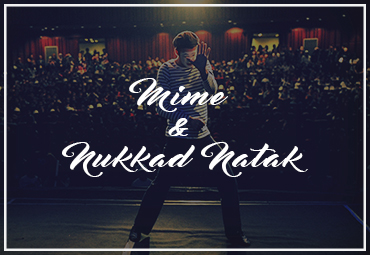
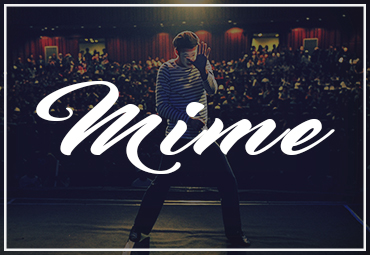
events page
mime and nukkad naatak seperated

Changed region(s): [[0.0892, 0.302, 0.9216, 0.7137], [0.8027, 0.6588, 0.8324, 0.6863]]

diff --git a/events.html b/events.html
@@ -199,7 +199,7 @@
 												</div>
 											</div>
 										</div>
-										<h2>Mime & Nukkad Naatak</h2>
+										<h2>Mime</h2>
 										<p></p>
 									</div>
 
@@ -430,6 +430,18 @@
 										<p></p>
 									</div>
 
+									<div class="col-md-4 col-sm-4 wow animated fadeInUp" data-wow-duration="1s" data-wow-delay="0.5s">
+										<div class="overlay-effect effects clearfix">
+											<div class="img">
+												<img src="assets/img/events/title/nukkad.jpg" alt="Portfolio Item">
+												<div class="overlay">
+													<button class="md-trigger expand" data-modal="modal-20"><i class="fa fa-search"></i><br>View More</button>
+												</div>
+											</div>
+										</div>
+										<h2>Nukkad Naatak</h2>
+										<p></p>
+									</div>
 
 								</li>
 							</ul>
@@ -448,7 +460,7 @@
 							<p>Any fest without a dance event is like body without soul. Taal is adrenaline fueled dance event entertaining for both the participants and audience alike. It has three categories- solo, duet and group.</p>
 							</blockquote>
 							More Details Coming Soon!<br>
-							For Queries Contact:<br> Pavitra-9926617644, Chahat Chowdhary-7771999989
+							<strong>For Queries Contact</strong>:<br> Pavitra-9926617644, Chahat Chowdhary-7771999989
 						</div>
 						<div class="sp-social" id="event-1" style="text-align:center">
 							<a onclick="checkEvent(1);" class="learn-more-btn btn-effect wow animated fadeIn" data-wow-duration="0.5s" data-wow-delay="1.5s">Register Now!
@@ -471,7 +483,7 @@
 							<p>Swaranjali is the event targeting to portray the melodious voices harboured by the students waiting to be unleashed to mesmerize the crowd.</p>
 							</blockquote>
 						More Details Coming Soon!<br>
-						For Queries Contact:<br> Nilesh Vishwakama-78038383291, Aditya Jaiswal-9685767966
+						<strong>For Queries Contact</strong>:<br> Nilesh Vishwakama-78038383291, Aditya Jaiswal-9685767966
 						</div>
 						<div class="sp-social" id="event-2" style="text-align:center">
 							<a onclick="checkEvent(2);" class="learn-more-btn btn-effect wow animated fadeIn" data-wow-duration="0.5s" data-wow-delay="1.5s">Register Now!
@@ -494,7 +506,7 @@
 							<p>Ambriti encourages the student participants to show off their glamour and give them a platform to exhibit their skills.</p>
 							</blockquote>
 						More Details Coming Soon!<br>
-						For Queries Contact:<br> Shubham Soni-7869371329, Harshita Gadhe-9009233383
+						<strong>For Queries Contact</strong>:<br> Shubham Soni-7869371329, Harshita Gadhe-9009233383
 						</div>
 						<div class="sp-social" id="event-3" style="text-align:center">
 							<a onclick="checkEvent(3);" class="learn-more-btn btn-effect wow animated fadeIn" data-wow-duration="0.5s" data-wow-delay="1.5s">Register Now!
@@ -516,7 +528,9 @@
 							<blockquote>
 							<p>Fashion using old newspaper. Let your creativity take a leap and make the most out of it. Using Newspapers and scrap to design your dresses and beat the fashion.</p>
 							</blockquote>
-							For Queries Contact: Anupam Tripathi-7089331622, Shubham Bhatia-9826443337
+
+							<strong>For Queries Contact</strong>:<br>
+							Anupam Tripathi-7089331622, Shubham Bhatia-9826443337
 						</div>
 						<div class="sp-social" id="event-4" style="text-align:center">
 							<a onclick="checkEvent(4);" class="learn-more-btn btn-effect wow animated fadeIn" data-wow-duration="0.5s" data-wow-delay="1.5s">Register Now!
@@ -533,12 +547,13 @@
 				<div class="md-content">
 					<div class="folio">
 						<div class="avatar12"></div>
-						<div class="sp-name"><strong>Mime & Nukkad Naatak</strong><br/>Mime | Drama</div>
+						<div class="sp-name"><strong>Mime </strong><br/>Mime</div>
 						<div class="sp-dsc">
 							<blockquote>
 							<p>The display of any idea or latest issues or problems present in our society. A little dramatic but an effective way of conveying a message to its audience.</p>
 							</blockquote>
-							For Queries Contact: Anupam Tripathi-7089331622, Shubham Bhatia-9826443337
+							<strong>For Queries Contact</strong>:<br>
+							Anupam Tripathi-7089331622, Shubham Bhatia-9826443337
 						</div>
 						<div class="sp-social" id="event-5" style="text-align:center">
 							<a onclick="checkEvent(5);" class="learn-more-btn btn-effect wow animated fadeIn" data-wow-duration="0.5s" data-wow-delay="1.5s">Register Now!
@@ -550,6 +565,7 @@
 			</div>
 			<div class="md-overlay"></div>
 			<!-- /Event Modal -->
+
 			<!-- Event Modal -->
 			<div class="md-modal md-effect-9" id="modal-6">
 				<div class="md-content">
@@ -560,7 +576,8 @@
 							<blockquote>
 							<p>Kavyanjali will bring forward the poetic skills within. The students will have to write a poem/shayari based on the given theme and present it in-front of the audience.</p>
 							</blockquote>
-							For Queries Contact: Anupam Tripathi-7089331622, Shubham Bhatia-9826443337
+							<strong>For Queries Contact</strong>:<br>
+							Anupam Tripathi-7089331622, Shubham Bhatia-9826443337
 						</div>
 						<div class="sp-social" id="event-6" style="text-align:center">
 							<a onclick="checkEvent(6);" class="learn-more-btn btn-effect wow animated fadeIn" data-wow-duration="0.5s" data-wow-delay="1.5s">Register Now!
@@ -582,7 +599,8 @@
 							<blockquote>
 							<p>Fireless Cooking Competition provides the students a platform to showcase their skills in cooking. The participants will have to prepare dishes without putting fire. The dishes will be judged on the basis of taste and decoration of the servings.</p>
 							</blockquote>
-							For Queries Contact: Anupam Tripathi-7089331622, Shubham Bhatia-9826443337
+							<strong>For Queries Contact</strong>: <br>
+							Anupam Tripathi-7089331622, Shubham Bhatia-9826443337
 
 						</div>
 						<div class="sp-social" id="event-7" style="text-align:center">
@@ -605,7 +623,8 @@
 							<blockquote>
 							<p>To restrict the canvas size but not the ideas. To perform graffiti or doodle art on paper sheets. Use whatever colour you need and may collaborate and participate.</p>
 							</blockquote>
-							For Queries Contact: Anupam Tripathi-7089331622, Shubham Bhatia-9826443337
+							<strong>For Queries Contact</strong>:<br>
+							Anupam Tripathi-7089331622, Shubham Bhatia-9826443337
 						</div>
 						<div class="sp-social" id="event-8" style="text-align:center">
 							<a onclick="checkEvent(8);" class="learn-more-btn btn-effect wow animated fadeIn" data-wow-duration="0.5s" data-wow-delay="1.5s">Register Now!
@@ -627,7 +646,8 @@
 							<blockquote>
 							<p>An RJ hosts a show, reads the script, plays the music and audio advertisement at specific intervals, raises topics of concern, designs subjects for discussion and interacts with callers and listeners. This will set-up a new culture of this amazing stream of work, and the fun associated. Also the skills like Oration, Fluency, Content, Spontaneity etc.</p>
 							</blockquote>
-							For Queries Contact: Anupam Tripathi-7089331622, Shubham Bhatia-9826443337
+							<strong>For Queries Contact</strong>:<br>
+							Anupam Tripathi-7089331622, Shubham Bhatia-9826443337
 						</div>
 						<div class="sp-social" id="event-9" style="text-align:center">
 							<a onclick="checkEvent(9);" class="learn-more-btn btn-effect wow animated fadeIn" data-wow-duration="0.5s" data-wow-delay="1.5s">Register Now!
@@ -649,7 +669,8 @@
 							<blockquote>
 							<p>Using random piece of papers make an appealing piece of art. All you’ll get is a sheet, random piece of papers and glue.</p>
 							</blockquote>
-							For Queries Contact: Anupam Tripathi-7089331622, Shubham Bhatia-9826443337
+							<strong>For Queries Contact</strong>: <br>
+							Anupam Tripathi-7089331622, Shubham Bhatia-9826443337
 						</div>
 						<div class="sp-social" id="event-10" style="text-align:center">
 							<a onclick="checkEvent(10);" class="learn-more-btn btn-effect wow animated fadeIn" data-wow-duration="0.5s" data-wow-delay="1.5s">Register Now!
@@ -671,7 +692,8 @@
 							<blockquote>
 							<p>Face painting is the artistic application of cosmetic ‘paint’ to a person’s face. There are special water-based cosmetic ‘paints’ made for face painting. Participants will be given a time limit in which they have to paint their partner’s face based on a given theme.</p>
 							</blockquote>
-							For Queries Contact:Anupam Tripathi-7089331622, Shubham Bhatia-9826443337
+							<strong>For Queries Contact</strong>:<br>
+							Anupam Tripathi-7089331622, Shubham Bhatia-9826443337
 						</div>
 						<div class="sp-social" id="event-11" style="text-align:center">
 							<a onclick="checkEvent(11);" class="learn-more-btn btn-effect wow animated fadeIn" data-wow-duration="0.5s" data-wow-delay="1.5s">Register Now!
@@ -693,7 +715,8 @@
 							<blockquote>
 							<p>This competition will give the participants to cater their ideas on a rough draft through craft. Making things live out plain paper and colours. They’ll be called with all their resources and will be given a time constraint to make a presentable card.</p>
 							</blockquote>
-							For Queries Contact:Shubham Bhatia-9826443337, Anupam Tripathi-7089331622
+							<strong>For Queries Contact</strong>:<br>
+							Shubham Bhatia-9826443337, Anupam Tripathi-7089331622
 						</div>
 						<div class="sp-social" id="event-12" style="text-align:center">
 							<a onclick="checkEvent(12);" class="learn-more-btn btn-effect wow animated fadeIn" data-wow-duration="0.5s" data-wow-delay="1.5s">Register Now!
@@ -715,7 +738,9 @@
 							<blockquote>
 							<p>This competition will give the participants a chance to showcase their creative skills with abstract drawings on the floor using the colors of Rangoli. The participants will have to get the best out of the colors in a given time limit and space.</p>
 							</blockquote>
-							For Queries Contact: Shubham Bhatia-9826443337, Anupam Tripathi-7089331622
+
+							<strong>For Queries Contact</strong>:<br>
+							Shubham Bhatia-9826443337, Anupam Tripathi-7089331622
 						</div>
 						<div class="sp-social" id="event-13" style="text-align:center">
 							<a onclick="checkEvent(13);" class="learn-more-btn btn-effect wow animated fadeIn" data-wow-duration="0.5s" data-wow-delay="1.5s">Register Now!
@@ -737,7 +762,8 @@
 							<blockquote>
 							<p>Have that craze of clicking snaps of every stupid thing or sharing every of your memory on social media? Then this is a competition for you curate your content, edit the photos and present it to your audience. You’ll be judged on the basis of your overall skills.</p>
 							</blockquote>
-							For Queries Contact: Shubham Bhatia-9826443337, Anupam Tripathi-7089331622
+							<strong>For Queries Contact</strong>:<br>
+							Shubham Bhatia-9826443337, Anupam Tripathi-7089331622
 						</div>
 						<div class="sp-social" id="event-14" style="text-align:center">
 							<a onclick="checkEvent(14);" class="learn-more-btn btn-effect wow animated fadeIn" data-wow-duration="0.5s" data-wow-delay="1.5s">Register Now!
@@ -759,7 +785,8 @@
 							<blockquote>
 							<p>Every traveller wishes to maintain a copy of his/her travel memories. You’ll be given themes and you have to research on it, collect images and fun facts, and compile and present in a form of magazine. One may participate individually or in groups.</p>
 							</blockquote>
-							For Queries Contact: Shubham Bhatia-9826443337, Anupam Tripathi-7089331622
+							<strong>For Queries Contact</strong>:<br>
+							Shubham Bhatia-9826443337, Anupam Tripathi-7089331622
 						</div>
 						<div class="sp-social" id="event-15" style="text-align:center">
 							<a onclick="checkEvent(15);" class="learn-more-btn btn-effect wow animated fadeIn" data-wow-duration="0.5s" data-wow-delay="1.5s">Register Now!
@@ -781,7 +808,8 @@
 							<blockquote>
 							<p>A trail of several Art & Craft activities or say tasks like painting a mug, wrapping a gift box, decorating with ribbons, etc. Making it an overall fun competition and the participants will be judged on the basis of their collective performance.</p>
 							</blockquote>
-							For Queries Contact: Shubham Bhatia-9826443337, Anupam Tripathi-7089331622
+							<strong>For Queries Contact</strong>:<br>
+							Shubham Bhatia-9826443337, Anupam Tripathi-7089331622
 						</div>
 						<div class="sp-social" id="event-16" style="text-align:center">
 							<a onclick="checkEvent(16);" class="learn-more-btn btn-effect wow animated fadeIn" data-wow-duration="0.5s" data-wow-delay="1.5s">Register Now!
@@ -803,7 +831,8 @@
 							<blockquote>
 							<p>This competition will give the participants an opportunity to showcase their videography and video editing skills.</p>
 							</blockquote>
-							For Queries Contact: Shubham Bhatia-9826443337, Anupam Tripathi-7089331622
+							<strong>For Queries Contact</strong>:<br>
+						  Shubham Bhatia-9826443337, Anupam Tripathi-7089331622
 						</div>
 						<div class="sp-social" id="event-17" style="text-align:center">
 							<a onclick="checkEvent(17);" class="learn-more-btn btn-effect wow animated fadeIn" data-wow-duration="0.5s" data-wow-delay="1.5s">Register Now!
@@ -825,7 +854,8 @@
 							<blockquote>
 							<p>You Dress and You Walk! That’s what a usual fashion show is. This competition is a twist with not just your fashion and dressing style but your networking skills. Get yourself dressed, arrive at our booth, and get a photo clicked. The photo will be shared on our Social Media, the one with the most likes, comments and share will gain you a great weightage.</p>
 							</blockquote>
-							For Queries Contact:Shubham Bhatia-9826443337, Anupam Tripathi-7089331622
+							<strong>For Queries Contact</strong>:<br>
+							Shubham Bhatia-9826443337, Anupam Tripathi-7089331622
 						</div>
 						<div class="sp-social" id="event-18" style="text-align:center">
 							<a onclick="checkEvent(18);" class="learn-more-btn btn-effect wow animated fadeIn" data-wow-duration="0.5s" data-wow-delay="1.5s">Register Now!
@@ -847,11 +877,35 @@
 							<blockquote>
 							<p>It’s an adventurous, mind-buzzing and a fun activity. Involves both the mental and physical strain, solving for a clue. Group participation is must for this activity.</p>
 							</blockquote>
-							For Queries Contact:Shubham Bhatia-9826443337, Anupam Tripathi-7089331622
+							<strong>For Queries Contact</strong>:<br>
+							Shubham Bhatia-9826443337, Anupam Tripathi-7089331622
 						</div>
 						<div class="sp-social" id="event-19" style="text-align:center">
 							<a onclick="checkEvent(19);" class="learn-more-btn btn-effect wow animated fadeIn" data-wow-duration="0.5s" data-wow-delay="1.5s">Register Now!
 							<i class="fa fa-user-plus"></i></a>
+						</div>
+						<button class="md-close"><i class="fa fa-times"></i></button>
+					</div>
+				</div>
+			</div>
+			<div class="md-overlay"></div>
+			<!-- /Event Modal -->
+			<!-- Event Modal -->
+			<div class="md-modal md-effect-9" id="modal-20">
+				<div class="md-content">
+					<div class="folio">
+						<div class="avatar20"></div>
+						<div class="sp-name"><strong>Nukkad Naatak</strong><br/>Drama</div>
+						<div class="sp-dsc">
+							<blockquote>
+							<p>The display of any idea or latest issues or problems present in our society. A little dramatic but an effective way of conveying a message to its audience.</p>
+							</blockquote>
+						<strong>For Queries Contact</strong>:<br>
+							Anupam Tripathi-7089331622, Shubham Bhatia-9826443337
+						</div>
+						<div class="sp-social" id="event-5" style="text-align:center">
+							<a onclick="checkEvent(5);" class="learn-more-btn btn-effect wow animated fadeIn" data-wow-duration="0.5s" data-wow-delay="1.5s">Register Now!
+							<i class="fa fa-user-plus"></i></a></a>
 						</div>
 						<button class="md-close"><i class="fa fa-times"></i></button>
 					</div>
@@ -869,7 +923,8 @@
 							<p>Enter you SPID to confirm your registration</p>
 							<input type="text" id="confirmSPID">
 							</blockquote>
-							For Queries Contact: Shubham Bhatia-9826443337, Anupam Tripathi-7089331622
+							<strong>For Queries Contact</strong>:<br>
+							Shubham Bhatia-9826443337, Anupam Tripathi-7089331622
 						</div>
 						<div class="sp-social" id="event-99" style="text-align:center">
 							<a onclick="checkEvent(99);" class="learn-more-btn btn-effect wow animated fadeIn" data-wow-duration="0.5s" data-wow-delay="1.5s">Register Now</a>

diff --git a/assets/css/styles.css b/assets/css/styles.css
@@ -981,6 +981,18 @@ div.avatar {
 	border-radius: 50%;
 	margin: 0 auto;
 }
+.avatar20 {
+	background-image: url('../img/events/dp/nukkad.jpg');
+	background-repeat: no-repeat;
+	background-position: center center;
+	background-color: #ffffff;
+	width: 100px;
+	height: 100px;
+	-moz-border-radius: 50%;
+	-webkit-border-radius: 50%;
+	border-radius: 50%;
+	margin: 0 auto;
+}
 .folio {
 	max-width: 500px;
 	height: auto;
